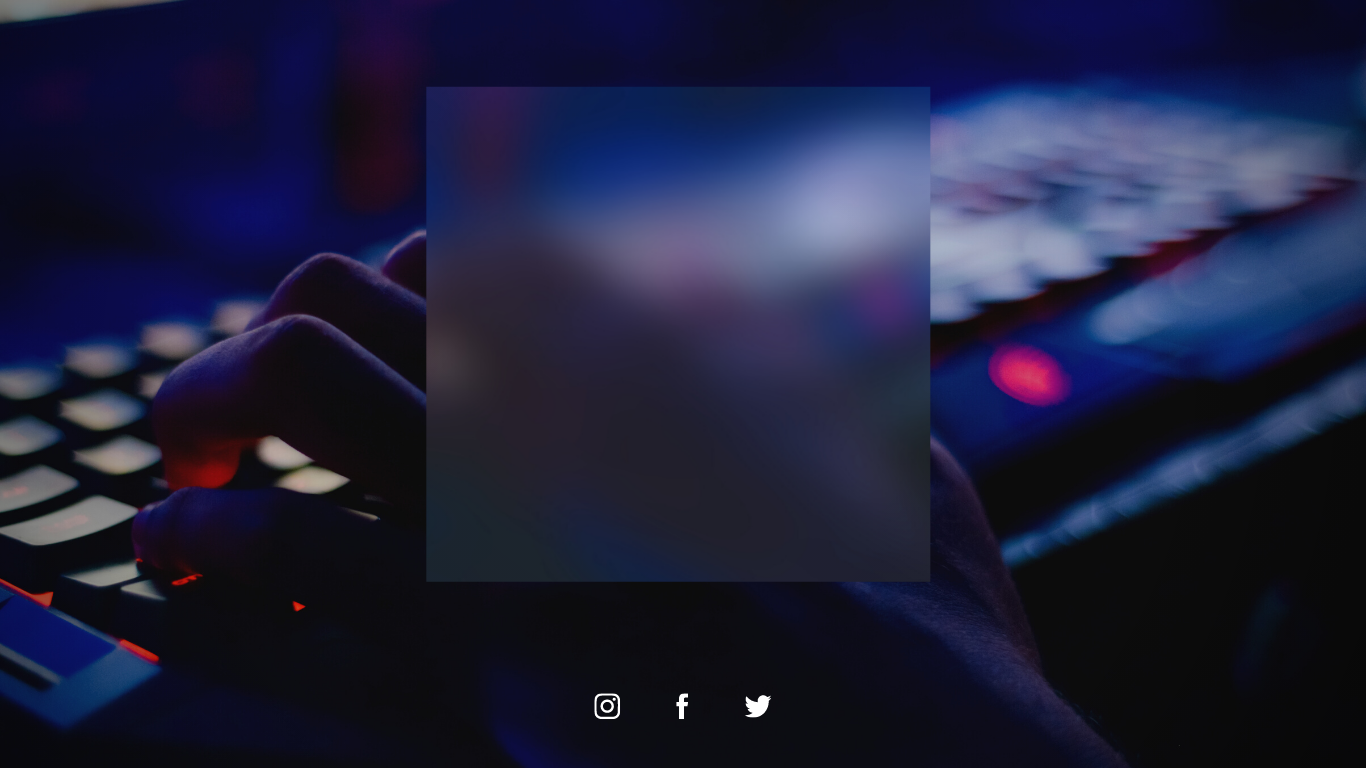
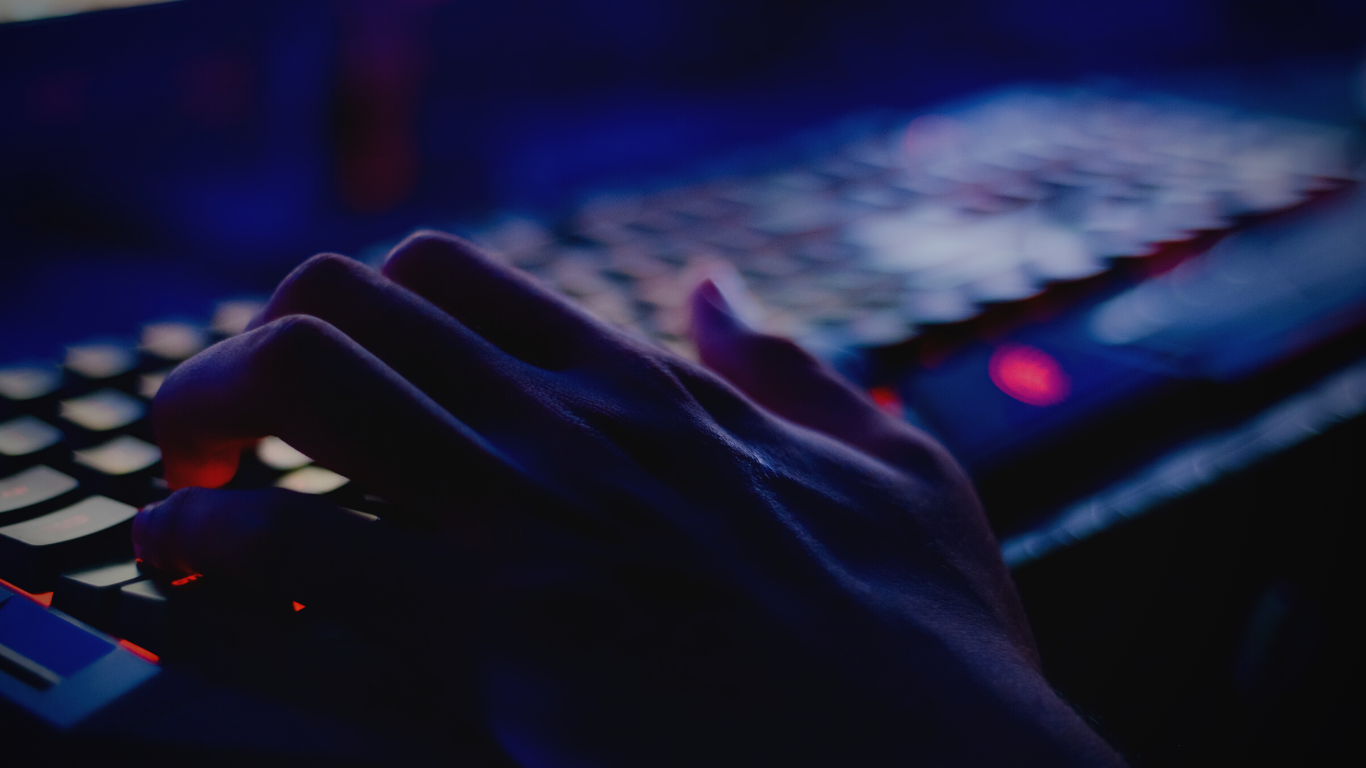
clase

Changed region(s): [[0.3075, 0.0938, 0.7072, 0.7812], [0.4919, 0.9062, 0.5842, 0.9375], [0.4305, 0.9062, 0.4612, 0.9375]]

diff --git a/src/components/pantallaEntrada.vue b/src/components/pantallaEntrada.vue
@@ -11,14 +11,23 @@
     <v-row no-gutters>
       <v-col align="center">
         <input type="button"/>
-        <div class="content">
-          <router-link :to="{ name: 'contenidos' }" class="text-decoration-none routernone">
-            <v-img class="play mt-10 px-n12" src="../assets/logo.png.png"></v-img> 
+        <div class="content fondo2 imagen" >
+          
+          <div class="">
+          <router-link :to="{ name: 'contenidos' }" class="text-decoration-none routernone mb-4" >
+            <v-img class="play " src="../assets/logo.png.png"></v-img> 
           </router-link>
+          
           <div class="sombra"></div>
-          <BR></BR>
-          <h1 class="title">TIPOS DE DATOS</h1>
+          </div>
         </div>
+        <v-row>
+          <v-col> 
+            <div class="text">
+          <h1 class=".display-4 font-weight-black" >TIPOS DE DATOS</h1>
+          </div>
+          </v-col>
+        </v-row>
       </v-col>
     </v-row>
   
@@ -32,23 +41,38 @@
 </template>
 
 <style>
-
-        .fondo{
-          background-image: url(../assets/background.png)
-          
+        .text{
+          color: blue;
+          margin: 2rem;
         }
-          .title{
-            color: white;
-          }
+        .fondo{
+          background-image: url(../assets/background.png);          
+        }
+       
         .content{
             width: 100%;
+            height: 80%;
+            display: flex;
         }
 
         .play{
-            width: 290px;
+            width: 150px;
             background-size: cover;
             animation: animar  1s infinite alternate;
             }
+        .fondo2{
+          border: 1px solid #fff;
+          border-radius: 10px;
+          width: 30rem;
+          height: 24rem;
+          background-color: #fff;
+          opacity: 0.7;
+          align-items: center;
+          display: flex;
+          align-content: center;
+          justify-content: center;
+
+        }
 
         .sombra{
             height: 100px;
@@ -57,8 +81,9 @@
             border-radius: 50%;
             transform: rotatex(-80deg);
             animation: sombra 1s infinite alternate;
+           
+            
         }
-
         @keyframes animar{
             to{
                 transform: translateY(-50px)
@@ -71,7 +96,6 @@
                 opacity: 0.2;
             }
         }
-        
       
 </style>
 
